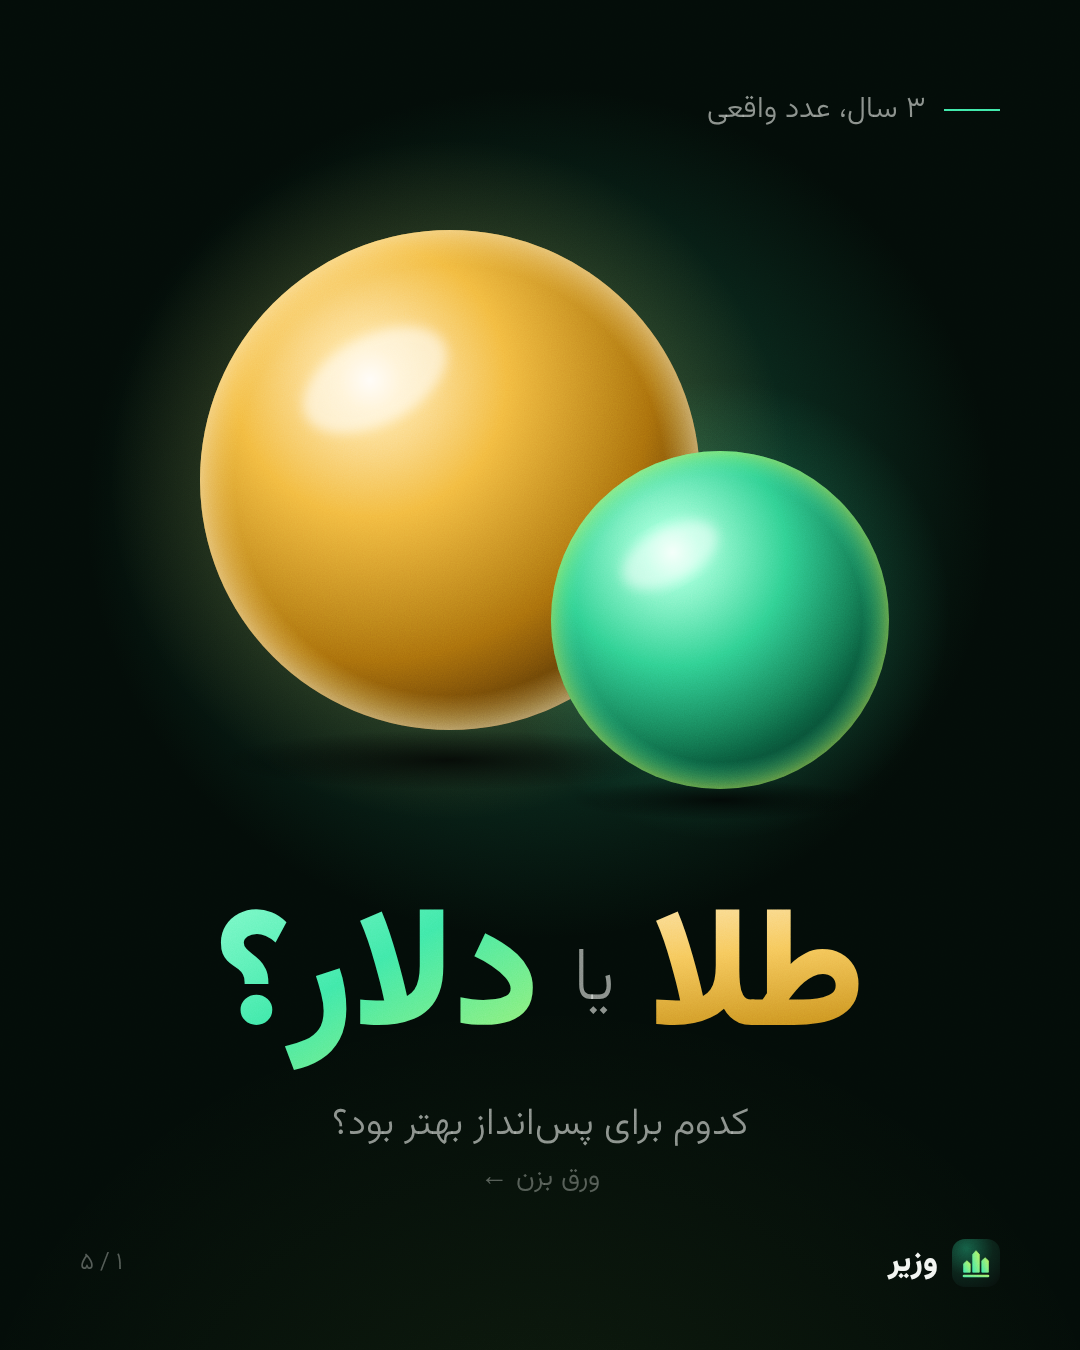
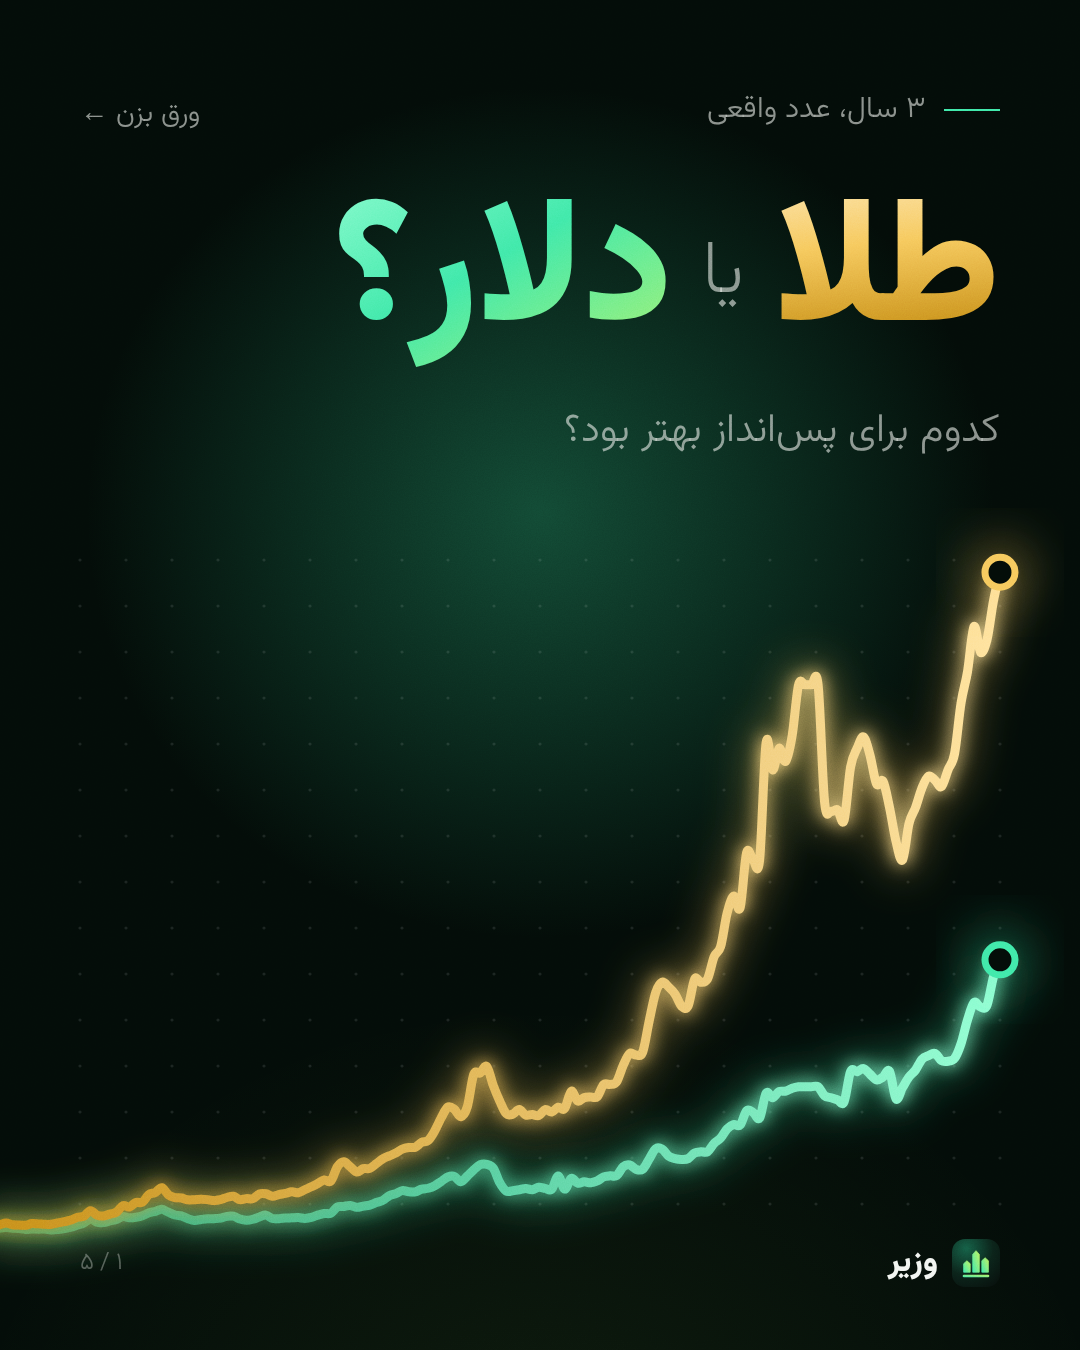
Carousel cover: glowing real price paths instead of drawn objects
Claude-Session: https://claude.ai/code/session_01SR2xSZYn8hRsVn3fdorWWW

diff --git a/store/social/carousel-gold-vs-dollar.html b/store/social/carousel-gold-vs-dollar.html
@@ -30,11 +30,11 @@
   .meta { font-size: 24px; font-weight: 300; color: var(--faint); text-align: left; line-height: 1.6; }
 
   /* ۱ جلد */
-  .cover-title { position: absolute; right: var(--m); left: var(--m); top: 900px; text-align: center; font-size: 168px; font-weight: 900; line-height: 1; letter-spacing: -3px; white-space: nowrap; }
-  .cover-title .ya { font-size: 76px; font-weight: 200; color: var(--mute); margin: 0 34px; letter-spacing: 0; vertical-align: middle; }
-  .cover-sub { position: absolute; right: var(--m); left: var(--m); top: 1095px; text-align: center; font-size: 38px; font-weight: 300; color: var(--mute); }
-  .cover-art { position: absolute; left: 0; top: 140px; width: 1080px; height: 760px; }
-  .swipe { position: absolute; left: 50%; transform: translateX(-50%); bottom: 150px; font-size: 28px; font-weight: 300; color: var(--faint); }
+  .cover-title { position: absolute; right: var(--m); left: var(--m); top: 190px; font-size: 176px; font-weight: 900; line-height: 1; letter-spacing: -3px; white-space: nowrap; }
+  .cover-title .ya { font-size: 76px; font-weight: 200; color: var(--mute); margin: 0 30px; letter-spacing: 0; vertical-align: middle; }
+  .cover-sub { position: absolute; right: var(--m); left: var(--m); top: 400px; font-size: 40px; font-weight: 300; color: var(--mute); }
+  .cover-art { position: absolute; inset: 0; width: 1080px; height: 1350px; }
+  .swipe { position: absolute; left: var(--m); top: 92px; font-size: 28px; font-weight: 300; color: var(--mute); }
 
   /* ۲ و ۳ نمودار */
   .head { position: absolute; right: var(--m); left: var(--m); top: 150px; }
@@ -68,41 +68,8 @@
 <!-- ۱ جلد -->
 <section class="slide" data-s="1">
   <div class="kicker"><i></i>۳ سال، عدد واقعی</div>
-  <!-- دو گوی: طلا و زمرد؛ مساحت هر کدام به نسبت رشد ۳ ساله (۱۱٫۸ و ۵٫۴ برابر) -->
-  <svg class="cover-art" viewBox="0 0 1080 760">
-    <defs>
-      <radialGradient id="sg" cx=".34" cy=".3" r=".78">
-        <stop offset="0" stop-color="#fffaf0"/><stop offset=".08" stop-color="#ffe7a8"/><stop offset=".35" stop-color="#f2b93f"/>
-        <stop offset=".72" stop-color="#a86d0c"/><stop offset="1" stop-color="#3d2603"/>
-      </radialGradient>
-      <radialGradient id="sgRim" cx=".5" cy=".5" r=".5">
-        <stop offset=".86" stop-color="#ffd36a" stop-opacity="0"/><stop offset="1" stop-color="#ffe9b0" stop-opacity=".55"/>
-      </radialGradient>
-      <radialGradient id="se" cx=".36" cy=".3" r=".8">
-        <stop offset="0" stop-color="#eafff6"/><stop offset=".1" stop-color="#9dffd8"/><stop offset=".42" stop-color="#2fcf8f"/>
-        <stop offset=".78" stop-color="#0b5e3f"/><stop offset="1" stop-color="#03231a"/>
-      </radialGradient>
-      <radialGradient id="seRim" cx=".5" cy=".5" r=".5">
-        <stop offset=".84" stop-color="#3ee8a6" stop-opacity="0"/><stop offset="1" stop-color="#b8f35c" stop-opacity=".5"/>
-      </radialGradient>
-      <radialGradient id="glowG"><stop offset="0" stop-color="#f6c75a" stop-opacity=".38"/><stop offset="1" stop-color="#f6c75a" stop-opacity="0"/></radialGradient>
-      <radialGradient id="glowE"><stop offset="0" stop-color="#3ee8a6" stop-opacity=".32"/><stop offset="1" stop-color="#3ee8a6" stop-opacity="0"/></radialGradient>
-      <radialGradient id="floor"><stop offset="0" stop-color="#000" stop-opacity=".75"/><stop offset="1" stop-color="#000" stop-opacity="0"/></radialGradient>
-      <filter id="blur6"><feGaussianBlur stdDeviation="6"/></filter>
-    </defs>
-    <circle cx="450" cy="340" r="340" fill="url(#glowG)"/>
-    <circle cx="720" cy="470" r="230" fill="url(#glowE)"/>
-    <ellipse cx="450" cy="620" rx="230" ry="30" fill="url(#floor)"/>
-    <ellipse cx="720" cy="660" rx="150" ry="20" fill="url(#floor)"/>
-    <!-- گوی طلا -->
-    <circle cx="450" cy="340" r="250" fill="url(#sg)"/>
-    <circle cx="450" cy="340" r="250" fill="url(#sgRim)"/>
-    <ellipse cx="375" cy="240" rx="78" ry="44" fill="#fff" opacity=".55" filter="url(#blur6)" transform="rotate(-28 375 240)"/>
-    <!-- گوی زمرد، کمی جلوتر -->
-    <circle cx="720" cy="480" r="169" fill="url(#se)"/>
-    <circle cx="720" cy="480" r="169" fill="url(#seRim)"/>
-    <ellipse cx="670" cy="415" rx="52" ry="28" fill="#fff" opacity=".5" filter="url(#blur6)" transform="rotate(-28 670 415)"/>
-  </svg>
+  <!-- جلد: خود مسیر واقعی قیمت، بزرگ و درخشان (پر میشود در اسکریپت) -->
+  <svg class="cover-art" id="coverArt" viewBox="0 0 1080 1350"></svg>
   <div class="cover-title"><span class="gold">طلا</span><span class="ya">یا</span><span class="em">دلار؟</span></div>
   <p class="cover-sub">کدوم برای پسانداز بهتر بود؟</p>
   <div class="swipe">ورق بزن ←</div>
@@ -176,7 +143,8 @@ function defs(svg) {
     <linearGradient id="le" x1="0" x2="1"><stop offset="0" stop-color="#1f9d6b"/><stop offset="1" stop-color="#8fffd2"/></linearGradient>
     <linearGradient id="ag" x1="0" y1="0" x2="0" y2="1"><stop offset="0" stop-color="#f6c75a" stop-opacity=".28"/><stop offset="1" stop-color="#f6c75a" stop-opacity="0"/></linearGradient>
     <linearGradient id="ae" x1="0" y1="0" x2="0" y2="1"><stop offset="0" stop-color="#3ee8a6" stop-opacity=".2"/><stop offset="1" stop-color="#3ee8a6" stop-opacity="0"/></linearGradient>
-    <filter id="glow" x="-20%" y="-20%" width="140%" height="140%"><feGaussianBlur stdDeviation="9" result="b"/><feMerge><feMergeNode in="b"/><feMergeNode in="SourceGraphic"/></feMerge></filter>`;
+    <filter id="glow" x="-20%" y="-20%" width="140%" height="140%"><feGaussianBlur stdDeviation="9" result="b"/><feMerge><feMergeNode in="b"/><feMergeNode in="SourceGraphic"/></feMerge></filter>
+    <filter id="glowBig" x="-30%" y="-30%" width="160%" height="160%"><feGaussianBlur stdDeviation="22"/></filter>`;
 }
 const LEFT = "end", RIGHT = "start";  // متن راستبهچپ: لبه چپ = end، لبه راست = start
 function text(svg, attrs, content) {
@@ -239,6 +207,25 @@ function axisLabels(svg, y) {
     el("line", { x1: n.x, y1: 540, x2: tx, y2: 540, stroke: n.color, "stroke-opacity": .45, "stroke-width": 2, "stroke-dasharray": "2 6" }, svg);
     text(svg, { x: tx, y: 625, "text-anchor": anchor, "font-weight": 900, "font-size": 84, fill: "#ff7a6b" }, fa(Math.round(-n.worst * 100)) + "٪ افت");
     text(svg, { x: tx, y: 672, "text-anchor": anchor, "font-weight": 300, "font-size": 30, fill: n.color }, n.name + " · " + MONTHS[+m - 1] + " " + fa(yy));
+  });
+})();
+
+// ۱ جلد: دو مسیر واقعی سهساله از گوشه پایین تا بالای صفحه، با هاله نور
+(function cover() {
+  const svg = document.getElementById("coverArt"); defs(svg);
+  const x0 = -20, x1 = 1000, yb = 1230, yt = 560, max = 12;
+  const px = (i) => x0 + (x1 - x0) * i / (F.length - 1);
+  const py = (v) => yb - (yb - yt) * (v - 1) / (max - 1);
+  // شبکه نقطهای کمرنگ برای عمق
+  for (let gx = 80; gx <= 1000; gx += 46) for (let gy = 560; gy <= 1230; gy += 46)
+    el("circle", { cx: gx, cy: gy, r: 1.6, fill: "rgba(242,245,241,.10)" }, svg);
+  [["usd", "le", "ae", "#3ee8a6"], ["gold18_gram", "lg", "ag", "#f6c75a"]].forEach(([k, line, area, dot]) => {
+    const pts = F.map((f, i) => [px(i), py(f[k] / F[0][k])]);
+    el("path", { d: smooth(pts), fill: "none", stroke: dot, "stroke-opacity": .35, "stroke-width": 26, filter: "url(#glowBig)" }, svg);
+    el("path", { d: smooth(pts), fill: "none", stroke: `url(#${line})`, "stroke-width": 9, "stroke-linecap": "round", filter: "url(#glow)" }, svg);
+    const [ex, ey] = pts[pts.length - 1];
+    el("circle", { cx: ex, cy: ey, r: 40, fill: dot, "fill-opacity": .18, filter: "url(#glowBig)" }, svg);
+    el("circle", { cx: ex, cy: ey, r: 15, fill: "#030c08", stroke: dot, "stroke-width": 7 }, svg);
   });
 })();
 
